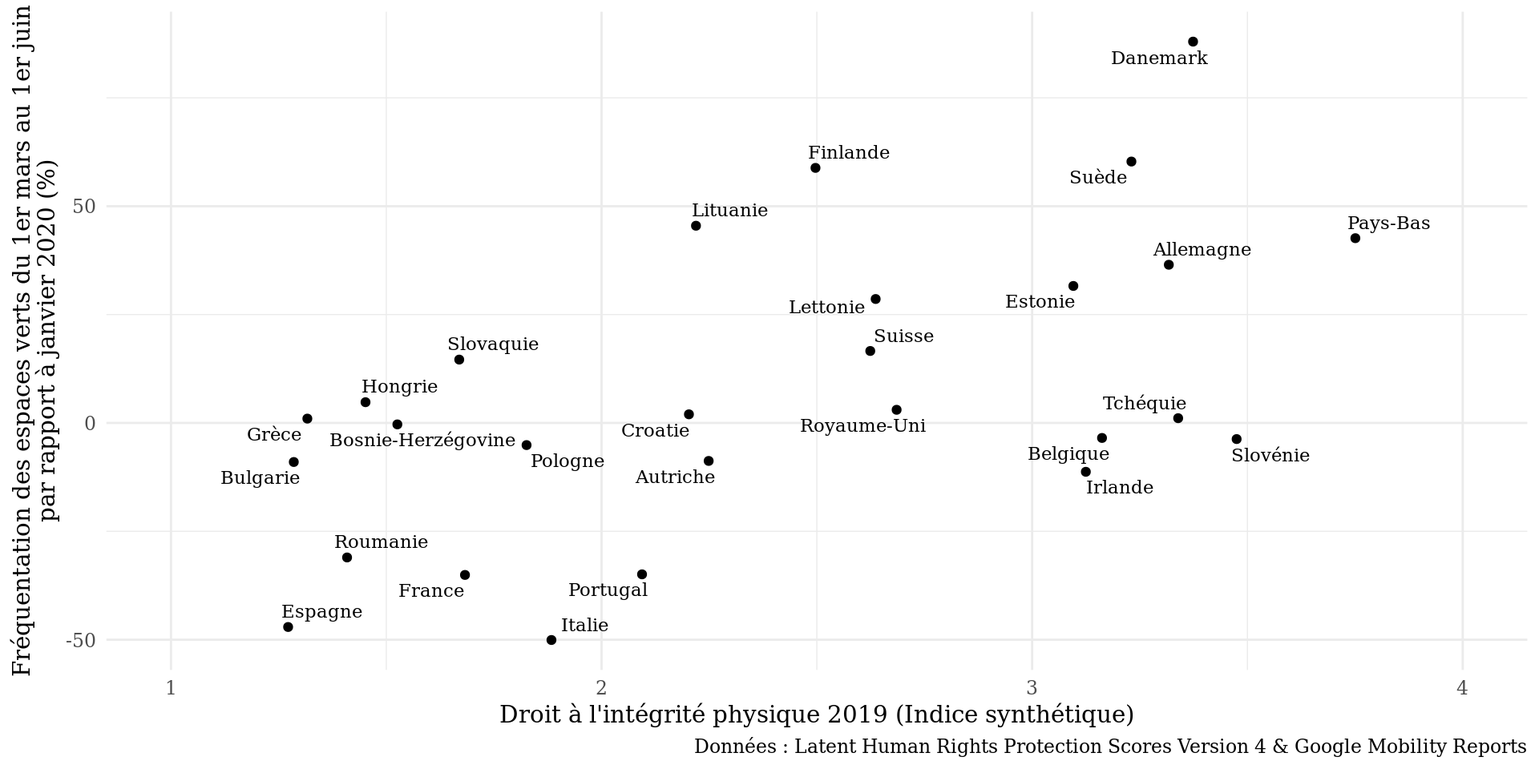
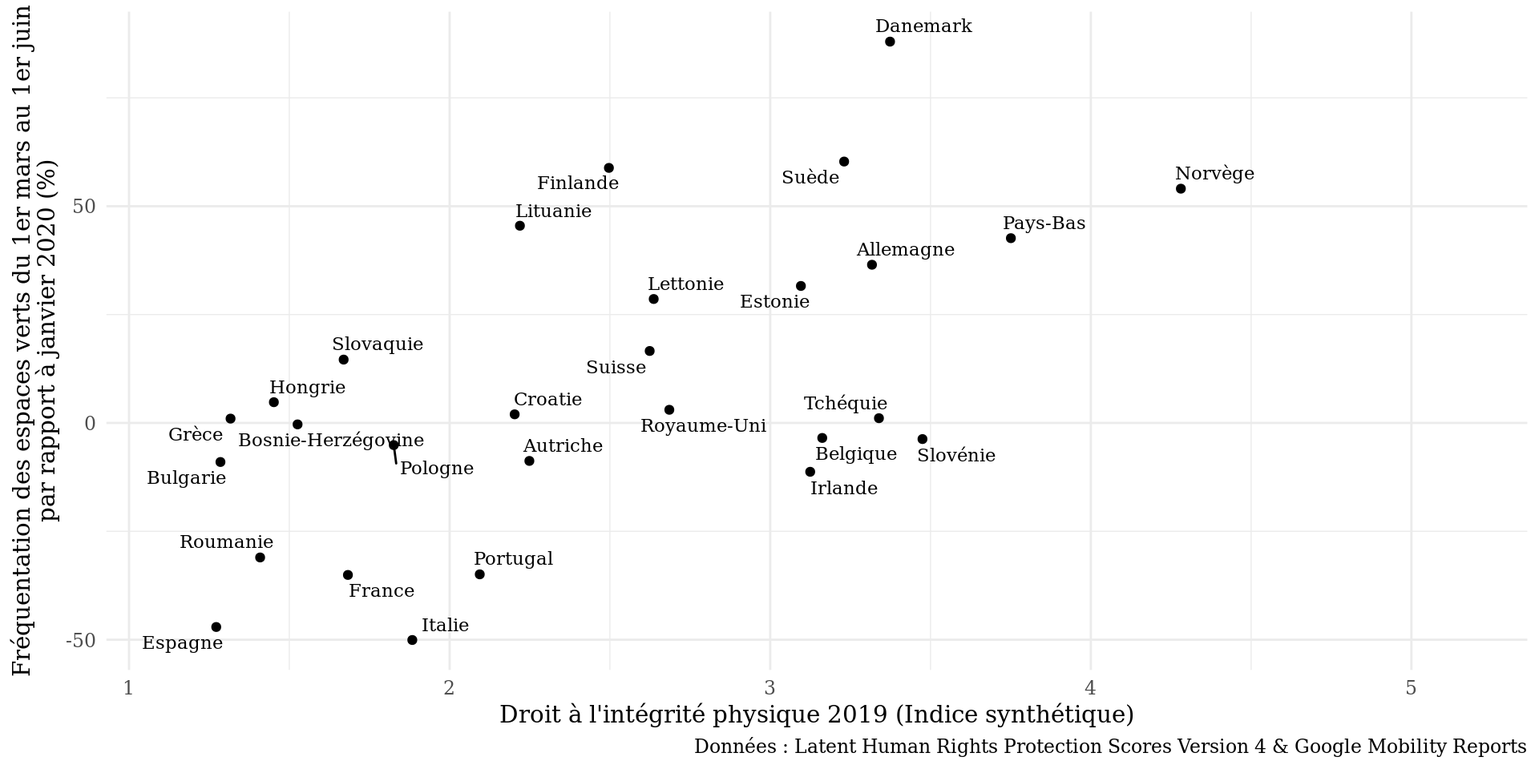
remove x limits of fariss parks

diff --git a/docs/diaporama.html b/docs/diaporama.html
@@ -832,8 +832,8 @@ Théo Boulakia &amp; Nicolas Mariot
 <h1>Données utilisées</h1>
 <div class="cell">
 <div class="cell-output-display">
-<div class="visNetwork html-widget html-fill-item" id="htmlwidget-3bc917cd53eb9d5da345" style="width:960px;height:480px;"></div>
-<script type="application/json" data-for="htmlwidget-3bc917cd53eb9d5da345">{"x":{"nodes":{"name":["agr","agr_file","agr_mode","agr_mode_plot","agr_police_boxplot","agr_police_plot","antai_file","apple","apple_file","cah_vico","chop_ci","communes_securitaires_map","communes_sf_file","controles","controles_file","date_beginn","date_end","departements","departements_sf_file","exceptius","exceptius_controler","exceptius_decreter","exceptius_file","exceptius_plot","excess_mortality","excess_mortality_file","fariss","fariss_file","fariss_parks_plot","frequences","geom_fontfamily","google","google_file","indice_p_score_plot","outre_mer","oxcgrt","oxcgrt_file","parks_average_plot","parks_evolution_plot","pm","pm_com","pm_dep","pm_file","police_europe","police_europe_file","police_europe_plot","police_parks_plot","population_departement","population_file","prevalence_classint","prevalence_verbalisation_map","prevalence_verbalisation_shadow","selection_pays_europe","stringency_index_plot","stringency_index_polar_plot","taux_verbalisation_plot","to_exclude","v_age","v_caract","v_demo","v_emotions","v_habitat","v_habitat_avant","v_habitat_avant_tc","v_habitat_avant_tc_names","v_habitat_tc","v_habitat_tc_root","v_interdits","v_nuisances","v_nuisances_avant","v_participation","v_police","v_politisation","v_pratiques","v_precautions","v_religion","v_remarques","v_travail","v_vecu","verbalisations_departement","vico","vico_acm","vico_clust","vico_read","vigilants","vigilants_departements","vigilants_file","vigilants_map","vigilants_plm","wb","wb_file","wb_police_europe_pcmh","world_composite_score","world_country_date","world_sf","world_summarise","table_to_tibble","lag_indice_in_string","name_groups","name_clust","preserve_order_when_arranging","bind_chi_prop","order_groups","shape_hux","map_chi_prop","visualize_dendrogram"],"type":["stem","stem","stem","stem","stem","stem","stem","stem","stem","stem","stem","stem","stem","stem","stem","stem","stem","stem","stem","stem","stem","stem","stem","stem","stem","stem","stem","stem","stem","stem","stem","stem","stem","stem","stem","stem","stem","stem","stem","stem","stem","stem","stem","stem","stem","stem","stem","stem","stem","stem","stem","stem","stem","stem","stem","stem","stem","stem","stem","stem","stem","stem","stem","stem","stem","stem","stem","stem","stem","stem","stem","stem","stem","stem","stem","stem","stem","stem","stem","stem","stem","stem","stem","stem","stem","stem","stem","stem","stem","stem","stem","stem","stem","stem","stem","stem","function","function","function","function","function","function","function","function","function","function"],"description":[null,null,null,null,null,null,null,null,null,null,null,null,null,null,null,null,null,null,null,null,null,null,null,null,null,null,null,null,null,null,null,null,null,null,null,null,null,null,null,null,null,null,null,null,null,null,null,null,null,null,null,null,null,null,null,null,null,null,null,null,null,null,null,null,null,null,null,null,null,null,null,null,null,null,null,null,null,null,null,null,null,null,null,null,null,null,null,null,null,null,null,null,null,null,null,null,null,null,null,null,null,null,null,null,null,null],"status":["uptodate","uptodate","uptodate","uptodate","uptodate","uptodate","uptodate","uptodate","uptodate","uptodate","uptodate","uptodate","uptodate","uptodate","uptodate","uptodate","uptodate","uptodate","uptodate","uptodate","uptodate","uptodate","uptodate","uptodate","uptodate","uptodate","uptodate","uptodate","uptodate","uptodate","uptodate","uptodate","uptodate","uptodate","uptodate","uptodate","uptodate","uptodate","uptodate","uptodate","uptodate","uptodate","uptodate","uptodate","uptodate","uptodate","uptodate","uptodate","uptodate","uptodate","uptodate","uptodate","uptodate","uptodate","uptodate","uptodate","uptodate","uptodate","uptodate","uptodate","uptodate","uptodate","uptodate","uptodate","uptodate","uptodate","uptodate","uptodate","uptodate","uptodate","uptodate","uptodate","uptodate","uptodate","uptodate","uptodate","uptodate","uptodate","uptodate","uptodate","uptodate","uptodate","uptodate","uptodate","uptodate","uptodate","uptodate","uptodate","uptodate","uptodate","uptodate","uptodate","uptodate","uptodate","uptodate","uptodate","uptodate","uptodate","uptodate","uptodate","uptodate","uptodate","uptodate","uptodate","uptodate","uptodate"],"seconds":[1.024,0.001,0.097,0.496,0.114,0.049,0,0.08500000000000001,0.001,24.724,0.001,0.973,0.001,0.083,0.001,1.05,0.002,0.018,0,0.014,0.046,0.05,0.001,0.033,0.475,0.001,0.918,0.001,0.114,0.146,0,3.092,0.001,0.11,0,1.794,0.001,0.047,1.062,0.368,0.11,0.008,0.001,0.606,0.001,0.045,0.027,0.141,0.001,0.002,0.061,0.107,0,0.064,0.101,0.008999999999999999,0.026,0,0,0,0.001,0.001,0,0.001,0.001,0,0.004,0,0,1.07,0,0.001,0,0,0,0,0,0,0.001,0.008999999999999999,0.016,0.075,0.006,4.298,0.2,0.005,0.001,0.865,0.097,0.33,4.086,0.033,0.07199999999999999,3.708,2.925,0.733,null,null,null,null,null,null,null,null,null,null],"bytes":[119233,8046111,685,134220,148703,129969,11920,362240,2638294,4600298,59871,20663160,55197696,613,64880,80,80,4014,3723264,312,359,359,29529,157407,126936,4904153,2405,1481889,189967,992,56,1274572,67114114,163534,107,117440,9782239,109357,428881,71077,38017,1186,344321,2108,963527,109145,220001,2068,2322944,1121,9490042,9523044,102,108036,193682,116781,389,114,620,223,182,355,346,200,103,201,91,216,225,231,168,118,168,390,183,141,117,278,774,775,576620,129808,49480,568673,146887,178,370964,45112647,66686,39732,204318,1467,2856,209592,139812,12688,null,null,null,null,null,null,null,null,null,null],"branches":[null,null,null,null,null,null,null,null,null,null,null,null,null,null,null,null,null,null,null,null,null,null,null,null,null,null,null,null,null,null,null,null,null,null,null,null,null,null,null,null,null,null,null,null,null,null,null,null,null,null,null,null,null,null,null,null,null,null,null,null,null,null,null,null,null,null,null,null,null,null,null,null,null,null,null,null,null,null,null,null,null,null,null,null,null,null,null,null,null,null,null,null,null,null,null,null,null,null,null,null,null,null,null,null,null,null],"label":["agr","agr_file","agr_mode","agr_mode_plot","agr_police_boxplot","agr_police_plot","antai_file","apple","apple_file","cah_vico","chop_ci","communes_securitaires_map","communes_sf_file","controles","controles_file","date_beginn","date_end","departements","departements_sf_file","exceptius","exceptius_controler","exceptius_decreter","exceptius_file","exceptius_plot","excess_mortality","excess_mortality_file","fariss","fariss_file","fariss_parks_plot","frequences","geom_fontfamily","google","google_file","indice_p_score_plot","outre_mer","oxcgrt","oxcgrt_file","parks_average_plot","parks_evolution_plot","pm","pm_com","pm_dep","pm_file","police_europe","police_europe_file","police_europe_plot","police_parks_plot","population_departement","population_file","prevalence_classint","prevalence_verbalisation_map","prevalence_verbalisation_shadow","selection_pays_europe","stringency_index_plot","stringency_index_polar_plot","taux_verbalisation_plot","to_exclude","v_age","v_caract","v_demo","v_emotions","v_habitat","v_habitat_avant","v_habitat_avant_tc","v_habitat_avant_tc_names","v_habitat_tc","v_habitat_tc_root","v_interdits","v_nuisances","v_nuisances_avant","v_participation","v_police","v_politisation","v_pratiques","v_precautions","v_religion","v_remarques","v_travail","v_vecu","verbalisations_departement","vico","vico_acm","vico_clust","vico_read","vigilants","vigilants_departements","vigilants_file","vigilants_map","vigilants_plm","wb","wb_file","wb_police_europe_pcmh","world_composite_score","world_country_date","world_sf","world_summarise","table_to_tibble","lag_indice_in_string","name_groups","name_clust","preserve_order_when_arranging","bind_chi_prop","order_groups","shape_hux","map_chi_prop","visualize_dendrogram"],"color":["#354823","#354823","#354823","#354823","#354823","#354823","#354823","#354823","#354823","#354823","#354823","#354823","#354823","#354823","#354823","#354823","#354823","#354823","#354823","#354823","#354823","#354823","#354823","#354823","#354823","#354823","#354823","#354823","#354823","#354823","#354823","#354823","#354823","#354823","#354823","#354823","#354823","#354823","#354823","#354823","#354823","#354823","#354823","#354823","#354823","#354823","#354823","#354823","#354823","#354823","#354823","#354823","#354823","#354823","#354823","#354823","#354823","#354823","#354823","#354823","#354823","#354823","#354823","#354823","#354823","#354823","#354823","#354823","#354823","#354823","#354823","#354823","#354823","#354823","#354823","#354823","#354823","#354823","#354823","#354823","#354823","#354823","#354823","#354823","#354823","#354823","#354823","#354823","#354823","#354823","#354823","#354823","#354823","#354823","#354823","#354823","#354823","#354823","#354823","#354823","#354823","#354823","#354823","#354823","#354823","#354823"],"id":["agr","agr_file","agr_mode","agr_mode_plot","agr_police_boxplot","agr_police_plot","antai_file","apple","apple_file","cah_vico","chop_ci","communes_securitaires_map","communes_sf_file","controles","controles_file","date_beginn","date_end","departements","departements_sf_file","exceptius","exceptius_controler","exceptius_decreter","exceptius_file","exceptius_plot","excess_mortality","excess_mortality_file","fariss","fariss_file","fariss_parks_plot","frequences","geom_fontfamily","google","google_file","indice_p_score_plot","outre_mer","oxcgrt","oxcgrt_file","parks_average_plot","parks_evolution_plot","pm","pm_com","pm_dep","pm_file","police_europe","police_europe_file","police_europe_plot","police_parks_plot","population_departement","population_file","prevalence_classint","prevalence_verbalisation_map","prevalence_verbalisation_shadow","selection_pays_europe","stringency_index_plot","stringency_index_polar_plot","taux_verbalisation_plot","to_exclude","v_age","v_caract","v_demo","v_emotions","v_habitat","v_habitat_avant","v_habitat_avant_tc","v_habitat_avant_tc_names","v_habitat_tc","v_habitat_tc_root","v_interdits","v_nuisances","v_nuisances_avant","v_participation","v_police","v_politisation","v_pratiques","v_precautions","v_religion","v_remarques","v_travail","v_vecu","verbalisations_departement","vico","vico_acm","vico_clust","vico_read","vigilants","vigilants_departements","vigilants_file","vigilants_map","vigilants_plm","wb","wb_file","wb_police_europe_pcmh","world_composite_score","world_country_date","world_sf","world_summarise","table_to_tibble","lag_indice_in_string","name_groups","name_clust","preserve_order_when_arranging","bind_chi_prop","order_groups","shape_hux","map_chi_prop","visualize_dendrogram"],"level":[2,1,3,6,6,6,1,2,1,11,1,4,1,2,1,1,1,3,1,3,2,2,1,6,3,1,3,1,6,9,1,3,1,7,0,3,1,6,5,2,3,3,1,3,1,6,6,2,1,4,4,5,1,6,6,4,10,1,6,1,1,2,5,4,3,1,2,1,1,1,1,1,1,2,1,1,1,1,3,2,13,8,12,7,2,3,1,4,3,2,1,4,6,4,1,5,1,0,1,1,1,2,2,2,3,3],"shape":["dot","dot","dot","dot","dot","dot","dot","dot","dot","dot","dot","dot","dot","dot","dot","dot","dot","dot","dot","dot","dot","dot","dot","dot","dot","dot","dot","dot","dot","dot","dot","dot","dot","dot","dot","dot","dot","dot","dot","dot","dot","dot","dot","dot","dot","dot","dot","dot","dot","dot","dot","dot","dot","dot","dot","dot","dot","dot","dot","dot","dot","dot","dot","dot","dot","dot","dot","dot","dot","dot","dot","dot","dot","dot","dot","dot","dot","dot","dot","dot","dot","dot","dot","dot","dot","dot","dot","dot","dot","dot","dot","dot","dot","dot","dot","dot","triangle","triangle","triangle","triangle","triangle","triangle","triangle","triangle","triangle","triangle"]},"edges":{"from":["table_to_tibble","bind_chi_prop","name_groups","order_groups","name_clust","preserve_order_when_arranging","v_caract","v_habitat_tc","v_pratiques","v_vecu","world_summarise","vigilants","police_europe_file","wb","vigilants_file","communes_sf_file","pm_com","v_habitat_tc_root","world_summarise","v_habitat_avant_tc","v_nuisances_avant","geom_fontfamily","world_composite_score","world_summarise","selection_pays_europe","wb","world_country_date","agr_mode","exceptius","fariss","wb","wb_police_europe_pcmh","world_country_date","world_sf","geom_fontfamily","world_summarise","v_pratiques","vico_read","wb_file","agr_file","geom_fontfamily","world_summarise","departements","geom_fontfamily","frequences","agr","apple","date_beginn","date_end","excess_mortality","google","oxcgrt","wb","fariss_file","wb","world_summarise","apple_file","oxcgrt_file","wb","pm_file","population_file","communes_sf_file","vigilants_plm","police_europe","wb","v_habitat_tc","v_habitat_tc","v_nuisances","geom_fontfamily","world_summarise","geom_fontfamily","world_summarise","world_summarise","agr","wb","exceptius_file","v_habitat_avant_tc_names","v_habitat_tc","departements","departements_sf_file","prevalence_classint","exceptius_controler","exceptius_decreter","world_summarise","pm","vigilants","geom_fontfamily","world_summarise","antai_file","exceptius_file","v_interdits","v_participation","v_precautions","pm","departements","departements_sf_file","chop_ci","controles","population_departement","verbalisations_departement","controles_file","geom_fontfamily","world_summarise","v_emotions","v_habitat","v_nuisances","v_police","v_remarques","v_travail","vico_acm","vico_read","excess_mortality_file","wb","google_file","wb","cah_vico","vico_clust","vico_read","v_age","v_demo","v_habitat_avant","v_politisation","v_religion","departements","to_exclude","vico_acm","vico_read"],"to":["bind_chi_prop","map_chi_prop","order_groups","visualize_dendrogram","shape_hux","shape_hux","vico_read","vico_read","vico_read","vico_read","parks_average_plot","vigilants_departements","police_europe","police_europe","vigilants","communes_securitaires_map","communes_securitaires_map","v_habitat_avant_tc_names","world_composite_score","v_habitat_avant","v_habitat_avant","indice_p_score_plot","indice_p_score_plot","indice_p_score_plot","parks_evolution_plot","parks_evolution_plot","parks_evolution_plot","world_summarise","world_summarise","world_summarise","world_summarise","world_summarise","world_summarise","world_summarise","exceptius_plot","exceptius_plot","vico_acm","vico_acm","wb","agr","fariss_parks_plot","fariss_parks_plot","taux_verbalisation_plot","taux_verbalisation_plot","to_exclude","world_country_date","world_country_date","world_country_date","world_country_date","world_country_date","world_country_date","world_country_date","world_country_date","fariss","fariss","police_europe_plot","apple","oxcgrt","oxcgrt","pm","population_departement","vigilants_map","vigilants_map","wb_police_europe_pcmh","wb_police_europe_pcmh","v_habitat_tc_root","v_habitat","v_habitat","agr_police_boxplot","agr_police_boxplot","agr_mode_plot","agr_mode_plot","stringency_index_plot","agr_mode","agr_mode","exceptius_decreter","v_habitat_avant_tc","v_habitat_avant_tc","prevalence_verbalisation_shadow","prevalence_verbalisation_shadow","prevalence_verbalisation_shadow","exceptius","exceptius","stringency_index_polar_plot","pm_dep","vigilants_plm","agr_police_plot","agr_police_plot","verbalisations_departement","exceptius_controler","v_pratiques","v_pratiques","v_pratiques","pm_com","prevalence_verbalisation_map","prevalence_verbalisation_map","departements","departements","departements","departements","controles","police_parks_plot","police_parks_plot","v_vecu","v_vecu","v_vecu","v_vecu","v_vecu","v_vecu","frequences","frequences","excess_mortality","excess_mortality","google","google","vico_clust","vico","vico","v_caract","v_caract","v_caract","v_caract","v_caract","prevalence_classint","cah_vico","cah_vico","cah_vico"],"arrows":["to","to","to","to","to","to","to","to","to","to","to","to","to","to","to","to","to","to","to","to","to","to","to","to","to","to","to","to","to","to","to","to","to","to","to","to","to","to","to","to","to","to","to","to","to","to","to","to","to","to","to","to","to","to","to","to","to","to","to","to","to","to","to","to","to","to","to","to","to","to","to","to","to","to","to","to","to","to","to","to","to","to","to","to","to","to","to","to","to","to","to","to","to","to","to","to","to","to","to","to","to","to","to","to","to","to","to","to","to","to","to","to","to","to","to","to","to","to","to","to","to","to","to","to","to","to","to"]},"nodesToDataframe":true,"edgesToDataframe":true,"options":{"width":"100%","height":"100%","nodes":{"shape":"dot","physics":false},"manipulation":{"enabled":false},"edges":{"smooth":{"type":"cubicBezier","forceDirection":"horizontal"}},"physics":{"stabilization":false},"interaction":{"zoomSpeed":1},"layout":{"hierarchical":{"enabled":true,"direction":"LR"}}},"groups":null,"width":null,"height":null,"idselection":{"enabled":false,"style":"width: 150px; height: 26px","useLabels":true,"main":"Select by id"},"byselection":{"enabled":false,"style":"width: 150px; height: 26px","multiple":false,"hideColor":"rgba(200,200,200,0.5)","highlight":false},"main":{"text":"","style":"font-family:Georgia, Times New Roman, Times, serif;font-weight:bold;font-size:20px;text-align:center;"},"submain":null,"footer":null,"background":"rgba(0, 0, 0, 0)","highlight":{"enabled":true,"hoverNearest":false,"degree":{"from":1,"to":1},"algorithm":"hierarchical","hideColor":"rgba(200,200,200,0.5)","labelOnly":true},"collapse":{"enabled":true,"fit":false,"resetHighlight":true,"clusterOptions":null,"keepCoord":true,"labelSuffix":"(cluster)"},"legend":{"width":0.2,"useGroups":false,"position":"right","ncol":1,"stepX":100,"stepY":100,"zoom":true,"nodes":{"label":["Up to date","Stem","Function"],"color":["#354823","#899DA4","#899DA4"],"shape":["dot","dot","triangle"]},"nodesToDataframe":true},"tooltipStay":300,"tooltipStyle":"position: fixed;visibility:hidden;padding: 5px;white-space: nowrap;font-family: verdana;font-size:14px;font-color:#000000;background-color: #f5f4ed;-moz-border-radius: 3px;-webkit-border-radius: 3px;border-radius: 3px;border: 1px solid #808074;box-shadow: 3px 3px 10px rgba(0, 0, 0, 0.2);"},"evals":[],"jsHooks":[]}</script>
+<div class="visNetwork html-widget html-fill-item" id="htmlwidget-5c4fe2698ba17a300e28" style="width:960px;height:480px;"></div>
+<script type="application/json" data-for="htmlwidget-5c4fe2698ba17a300e28">{"x":{"nodes":{"name":["agr","agr_file","agr_mode","agr_mode_plot","agr_police_boxplot","agr_police_plot","antai_file","apple","apple_file","cah_vico","chop_ci","communes_securitaires_map","communes_sf_file","controles","controles_file","date_beginn","date_end","departements","departements_sf_file","exceptius","exceptius_controler","exceptius_decreter","exceptius_file","exceptius_plot","excess_mortality","excess_mortality_file","fariss","fariss_file","fariss_parks_plot","frequences","geom_fontfamily","google","google_file","indice_p_score_plot","outre_mer","oxcgrt","oxcgrt_file","parks_average_plot","parks_evolution_plot","pm","pm_com","pm_dep","pm_file","police_europe","police_europe_file","police_europe_plot","police_parks_plot","population_departement","population_file","prevalence_classint","prevalence_verbalisation_map","prevalence_verbalisation_shadow","selection_pays_europe","stringency_index_plot","stringency_index_polar_plot","taux_verbalisation_plot","to_exclude","v_age","v_caract","v_demo","v_emotions","v_habitat","v_habitat_avant","v_habitat_avant_tc","v_habitat_avant_tc_names","v_habitat_tc","v_habitat_tc_root","v_interdits","v_nuisances","v_nuisances_avant","v_participation","v_police","v_politisation","v_pratiques","v_precautions","v_religion","v_remarques","v_travail","v_vecu","verbalisations_departement","vico","vico_acm","vico_clust","vico_read","vigilants","vigilants_departements","vigilants_file","vigilants_map","vigilants_plm","wb","wb_file","wb_police_europe_pcmh","world_composite_score","world_country_date","world_sf","world_summarise","table_to_tibble","lag_indice_in_string","name_groups","name_clust","preserve_order_when_arranging","bind_chi_prop","order_groups","shape_hux","map_chi_prop","visualize_dendrogram"],"type":["stem","stem","stem","stem","stem","stem","stem","stem","stem","stem","stem","stem","stem","stem","stem","stem","stem","stem","stem","stem","stem","stem","stem","stem","stem","stem","stem","stem","stem","stem","stem","stem","stem","stem","stem","stem","stem","stem","stem","stem","stem","stem","stem","stem","stem","stem","stem","stem","stem","stem","stem","stem","stem","stem","stem","stem","stem","stem","stem","stem","stem","stem","stem","stem","stem","stem","stem","stem","stem","stem","stem","stem","stem","stem","stem","stem","stem","stem","stem","stem","stem","stem","stem","stem","stem","stem","stem","stem","stem","stem","stem","stem","stem","stem","stem","stem","function","function","function","function","function","function","function","function","function","function"],"description":[null,null,null,null,null,null,null,null,null,null,null,null,null,null,null,null,null,null,null,null,null,null,null,null,null,null,null,null,null,null,null,null,null,null,null,null,null,null,null,null,null,null,null,null,null,null,null,null,null,null,null,null,null,null,null,null,null,null,null,null,null,null,null,null,null,null,null,null,null,null,null,null,null,null,null,null,null,null,null,null,null,null,null,null,null,null,null,null,null,null,null,null,null,null,null,null,null,null,null,null,null,null,null,null,null,null],"status":["uptodate","uptodate","uptodate","uptodate","uptodate","uptodate","uptodate","uptodate","uptodate","uptodate","uptodate","uptodate","uptodate","uptodate","uptodate","uptodate","uptodate","uptodate","uptodate","uptodate","uptodate","uptodate","uptodate","uptodate","uptodate","uptodate","uptodate","uptodate","uptodate","uptodate","uptodate","uptodate","uptodate","uptodate","uptodate","uptodate","uptodate","uptodate","uptodate","uptodate","uptodate","uptodate","uptodate","uptodate","uptodate","uptodate","uptodate","uptodate","uptodate","uptodate","uptodate","uptodate","uptodate","uptodate","uptodate","uptodate","uptodate","uptodate","uptodate","uptodate","uptodate","uptodate","uptodate","uptodate","uptodate","uptodate","uptodate","uptodate","uptodate","uptodate","uptodate","uptodate","uptodate","uptodate","uptodate","uptodate","uptodate","uptodate","uptodate","uptodate","uptodate","uptodate","uptodate","uptodate","uptodate","uptodate","uptodate","uptodate","uptodate","uptodate","uptodate","uptodate","uptodate","uptodate","uptodate","uptodate","uptodate","uptodate","uptodate","uptodate","uptodate","uptodate","uptodate","uptodate","uptodate","uptodate"],"seconds":[1.024,0.001,0.097,0.496,0.114,0.049,0,0.08500000000000001,0.001,24.724,0.001,0.973,0.001,0.083,0.001,1.05,0.002,0.018,0,0.014,0.046,0.05,0.001,0.033,0.475,0.001,0.918,0.001,0.02,0.146,0,3.092,0.001,0.11,0,1.794,0.001,0.047,1.062,0.368,0.11,0.008,0.001,0.606,0.001,0.045,0.027,0.141,0.001,0.002,0.061,0.107,0,0.064,0.101,0.008999999999999999,0.026,0,0,0,0.001,0.001,0,0.001,0.001,0,0.004,0,0,1.07,0,0.001,0,0,0,0,0,0,0.001,0.008999999999999999,0.016,0.075,0.006,4.298,0.2,0.005,0.001,0.865,0.097,0.33,4.086,0.033,0.07199999999999999,3.708,2.925,0.733,null,null,null,null,null,null,null,null,null,null],"bytes":[119233,8046111,685,134220,148703,129969,11920,362240,2638294,4600298,59871,20663160,55197696,613,64880,80,80,4014,3723264,312,359,359,29529,157407,126936,4904153,2405,1481889,127362,992,56,1274572,67114114,163534,107,117440,9782239,109357,428881,71077,38017,1186,344321,2108,963527,109145,220001,2068,2322944,1121,9490042,9523044,102,108036,193682,116781,389,114,620,223,182,355,346,200,103,201,91,216,225,231,168,118,168,390,183,141,117,278,774,775,576620,129808,49480,568673,146887,178,370964,45112647,66686,39732,204318,1467,2856,209592,139812,12688,null,null,null,null,null,null,null,null,null,null],"branches":[null,null,null,null,null,null,null,null,null,null,null,null,null,null,null,null,null,null,null,null,null,null,null,null,null,null,null,null,null,null,null,null,null,null,null,null,null,null,null,null,null,null,null,null,null,null,null,null,null,null,null,null,null,null,null,null,null,null,null,null,null,null,null,null,null,null,null,null,null,null,null,null,null,null,null,null,null,null,null,null,null,null,null,null,null,null,null,null,null,null,null,null,null,null,null,null,null,null,null,null,null,null,null,null,null,null],"label":["agr","agr_file","agr_mode","agr_mode_plot","agr_police_boxplot","agr_police_plot","antai_file","apple","apple_file","cah_vico","chop_ci","communes_securitaires_map","communes_sf_file","controles","controles_file","date_beginn","date_end","departements","departements_sf_file","exceptius","exceptius_controler","exceptius_decreter","exceptius_file","exceptius_plot","excess_mortality","excess_mortality_file","fariss","fariss_file","fariss_parks_plot","frequences","geom_fontfamily","google","google_file","indice_p_score_plot","outre_mer","oxcgrt","oxcgrt_file","parks_average_plot","parks_evolution_plot","pm","pm_com","pm_dep","pm_file","police_europe","police_europe_file","police_europe_plot","police_parks_plot","population_departement","population_file","prevalence_classint","prevalence_verbalisation_map","prevalence_verbalisation_shadow","selection_pays_europe","stringency_index_plot","stringency_index_polar_plot","taux_verbalisation_plot","to_exclude","v_age","v_caract","v_demo","v_emotions","v_habitat","v_habitat_avant","v_habitat_avant_tc","v_habitat_avant_tc_names","v_habitat_tc","v_habitat_tc_root","v_interdits","v_nuisances","v_nuisances_avant","v_participation","v_police","v_politisation","v_pratiques","v_precautions","v_religion","v_remarques","v_travail","v_vecu","verbalisations_departement","vico","vico_acm","vico_clust","vico_read","vigilants","vigilants_departements","vigilants_file","vigilants_map","vigilants_plm","wb","wb_file","wb_police_europe_pcmh","world_composite_score","world_country_date","world_sf","world_summarise","table_to_tibble","lag_indice_in_string","name_groups","name_clust","preserve_order_when_arranging","bind_chi_prop","order_groups","shape_hux","map_chi_prop","visualize_dendrogram"],"color":["#354823","#354823","#354823","#354823","#354823","#354823","#354823","#354823","#354823","#354823","#354823","#354823","#354823","#354823","#354823","#354823","#354823","#354823","#354823","#354823","#354823","#354823","#354823","#354823","#354823","#354823","#354823","#354823","#354823","#354823","#354823","#354823","#354823","#354823","#354823","#354823","#354823","#354823","#354823","#354823","#354823","#354823","#354823","#354823","#354823","#354823","#354823","#354823","#354823","#354823","#354823","#354823","#354823","#354823","#354823","#354823","#354823","#354823","#354823","#354823","#354823","#354823","#354823","#354823","#354823","#354823","#354823","#354823","#354823","#354823","#354823","#354823","#354823","#354823","#354823","#354823","#354823","#354823","#354823","#354823","#354823","#354823","#354823","#354823","#354823","#354823","#354823","#354823","#354823","#354823","#354823","#354823","#354823","#354823","#354823","#354823","#354823","#354823","#354823","#354823","#354823","#354823","#354823","#354823","#354823","#354823"],"id":["agr","agr_file","agr_mode","agr_mode_plot","agr_police_boxplot","agr_police_plot","antai_file","apple","apple_file","cah_vico","chop_ci","communes_securitaires_map","communes_sf_file","controles","controles_file","date_beginn","date_end","departements","departements_sf_file","exceptius","exceptius_controler","exceptius_decreter","exceptius_file","exceptius_plot","excess_mortality","excess_mortality_file","fariss","fariss_file","fariss_parks_plot","frequences","geom_fontfamily","google","google_file","indice_p_score_plot","outre_mer","oxcgrt","oxcgrt_file","parks_average_plot","parks_evolution_plot","pm","pm_com","pm_dep","pm_file","police_europe","police_europe_file","police_europe_plot","police_parks_plot","population_departement","population_file","prevalence_classint","prevalence_verbalisation_map","prevalence_verbalisation_shadow","selection_pays_europe","stringency_index_plot","stringency_index_polar_plot","taux_verbalisation_plot","to_exclude","v_age","v_caract","v_demo","v_emotions","v_habitat","v_habitat_avant","v_habitat_avant_tc","v_habitat_avant_tc_names","v_habitat_tc","v_habitat_tc_root","v_interdits","v_nuisances","v_nuisances_avant","v_participation","v_police","v_politisation","v_pratiques","v_precautions","v_religion","v_remarques","v_travail","v_vecu","verbalisations_departement","vico","vico_acm","vico_clust","vico_read","vigilants","vigilants_departements","vigilants_file","vigilants_map","vigilants_plm","wb","wb_file","wb_police_europe_pcmh","world_composite_score","world_country_date","world_sf","world_summarise","table_to_tibble","lag_indice_in_string","name_groups","name_clust","preserve_order_when_arranging","bind_chi_prop","order_groups","shape_hux","map_chi_prop","visualize_dendrogram"],"level":[2,1,3,6,6,6,1,2,1,11,1,4,1,2,1,1,1,3,1,3,2,2,1,6,3,1,3,1,6,9,1,3,1,7,0,3,1,6,5,2,3,3,1,3,1,6,6,2,1,4,4,5,1,6,6,4,10,1,6,1,1,2,5,4,3,1,2,1,1,1,1,1,1,2,1,1,1,1,3,2,13,8,12,7,2,3,1,4,3,2,1,4,6,4,1,5,1,0,1,1,1,2,2,2,3,3],"shape":["dot","dot","dot","dot","dot","dot","dot","dot","dot","dot","dot","dot","dot","dot","dot","dot","dot","dot","dot","dot","dot","dot","dot","dot","dot","dot","dot","dot","dot","dot","dot","dot","dot","dot","dot","dot","dot","dot","dot","dot","dot","dot","dot","dot","dot","dot","dot","dot","dot","dot","dot","dot","dot","dot","dot","dot","dot","dot","dot","dot","dot","dot","dot","dot","dot","dot","dot","dot","dot","dot","dot","dot","dot","dot","dot","dot","dot","dot","dot","dot","dot","dot","dot","dot","dot","dot","dot","dot","dot","dot","dot","dot","dot","dot","dot","dot","triangle","triangle","triangle","triangle","triangle","triangle","triangle","triangle","triangle","triangle"]},"edges":{"from":["table_to_tibble","bind_chi_prop","name_groups","order_groups","name_clust","preserve_order_when_arranging","v_caract","v_habitat_tc","v_pratiques","v_vecu","world_summarise","vigilants","police_europe_file","wb","vigilants_file","communes_sf_file","pm_com","v_habitat_tc_root","world_summarise","v_habitat_avant_tc","v_nuisances_avant","geom_fontfamily","world_composite_score","world_summarise","selection_pays_europe","wb","world_country_date","agr_mode","exceptius","fariss","wb","wb_police_europe_pcmh","world_country_date","world_sf","geom_fontfamily","world_summarise","v_pratiques","vico_read","wb_file","agr_file","geom_fontfamily","world_summarise","departements","geom_fontfamily","frequences","agr","apple","date_beginn","date_end","excess_mortality","google","oxcgrt","wb","fariss_file","wb","world_summarise","apple_file","oxcgrt_file","wb","pm_file","population_file","communes_sf_file","vigilants_plm","police_europe","wb","v_habitat_tc","v_habitat_tc","v_nuisances","geom_fontfamily","world_summarise","geom_fontfamily","world_summarise","world_summarise","agr","wb","exceptius_file","v_habitat_avant_tc_names","v_habitat_tc","departements","departements_sf_file","prevalence_classint","exceptius_controler","exceptius_decreter","world_summarise","pm","vigilants","geom_fontfamily","world_summarise","antai_file","exceptius_file","v_interdits","v_participation","v_precautions","pm","departements","departements_sf_file","chop_ci","controles","population_departement","verbalisations_departement","controles_file","geom_fontfamily","world_summarise","v_emotions","v_habitat","v_nuisances","v_police","v_remarques","v_travail","vico_acm","vico_read","excess_mortality_file","wb","google_file","wb","cah_vico","vico_clust","vico_read","v_age","v_demo","v_habitat_avant","v_politisation","v_religion","departements","to_exclude","vico_acm","vico_read"],"to":["bind_chi_prop","map_chi_prop","order_groups","visualize_dendrogram","shape_hux","shape_hux","vico_read","vico_read","vico_read","vico_read","parks_average_plot","vigilants_departements","police_europe","police_europe","vigilants","communes_securitaires_map","communes_securitaires_map","v_habitat_avant_tc_names","world_composite_score","v_habitat_avant","v_habitat_avant","indice_p_score_plot","indice_p_score_plot","indice_p_score_plot","parks_evolution_plot","parks_evolution_plot","parks_evolution_plot","world_summarise","world_summarise","world_summarise","world_summarise","world_summarise","world_summarise","world_summarise","exceptius_plot","exceptius_plot","vico_acm","vico_acm","wb","agr","fariss_parks_plot","fariss_parks_plot","taux_verbalisation_plot","taux_verbalisation_plot","to_exclude","world_country_date","world_country_date","world_country_date","world_country_date","world_country_date","world_country_date","world_country_date","world_country_date","fariss","fariss","police_europe_plot","apple","oxcgrt","oxcgrt","pm","population_departement","vigilants_map","vigilants_map","wb_police_europe_pcmh","wb_police_europe_pcmh","v_habitat_tc_root","v_habitat","v_habitat","agr_police_boxplot","agr_police_boxplot","agr_mode_plot","agr_mode_plot","stringency_index_plot","agr_mode","agr_mode","exceptius_decreter","v_habitat_avant_tc","v_habitat_avant_tc","prevalence_verbalisation_shadow","prevalence_verbalisation_shadow","prevalence_verbalisation_shadow","exceptius","exceptius","stringency_index_polar_plot","pm_dep","vigilants_plm","agr_police_plot","agr_police_plot","verbalisations_departement","exceptius_controler","v_pratiques","v_pratiques","v_pratiques","pm_com","prevalence_verbalisation_map","prevalence_verbalisation_map","departements","departements","departements","departements","controles","police_parks_plot","police_parks_plot","v_vecu","v_vecu","v_vecu","v_vecu","v_vecu","v_vecu","frequences","frequences","excess_mortality","excess_mortality","google","google","vico_clust","vico","vico","v_caract","v_caract","v_caract","v_caract","v_caract","prevalence_classint","cah_vico","cah_vico","cah_vico"],"arrows":["to","to","to","to","to","to","to","to","to","to","to","to","to","to","to","to","to","to","to","to","to","to","to","to","to","to","to","to","to","to","to","to","to","to","to","to","to","to","to","to","to","to","to","to","to","to","to","to","to","to","to","to","to","to","to","to","to","to","to","to","to","to","to","to","to","to","to","to","to","to","to","to","to","to","to","to","to","to","to","to","to","to","to","to","to","to","to","to","to","to","to","to","to","to","to","to","to","to","to","to","to","to","to","to","to","to","to","to","to","to","to","to","to","to","to","to","to","to","to","to","to","to","to","to","to","to","to"]},"nodesToDataframe":true,"edgesToDataframe":true,"options":{"width":"100%","height":"100%","nodes":{"shape":"dot","physics":false},"manipulation":{"enabled":false},"edges":{"smooth":{"type":"cubicBezier","forceDirection":"horizontal"}},"physics":{"stabilization":false},"interaction":{"zoomSpeed":1},"layout":{"hierarchical":{"enabled":true,"direction":"LR"}}},"groups":null,"width":null,"height":null,"idselection":{"enabled":false,"style":"width: 150px; height: 26px","useLabels":true,"main":"Select by id"},"byselection":{"enabled":false,"style":"width: 150px; height: 26px","multiple":false,"hideColor":"rgba(200,200,200,0.5)","highlight":false},"main":{"text":"","style":"font-family:Georgia, Times New Roman, Times, serif;font-weight:bold;font-size:20px;text-align:center;"},"submain":null,"footer":null,"background":"rgba(0, 0, 0, 0)","highlight":{"enabled":true,"hoverNearest":false,"degree":{"from":1,"to":1},"algorithm":"hierarchical","hideColor":"rgba(200,200,200,0.5)","labelOnly":true},"collapse":{"enabled":true,"fit":false,"resetHighlight":true,"clusterOptions":null,"keepCoord":true,"labelSuffix":"(cluster)"},"legend":{"width":0.2,"useGroups":false,"position":"right","ncol":1,"stepX":100,"stepY":100,"zoom":true,"nodes":{"label":["Up to date","Stem","Function"],"color":["#354823","#899DA4","#899DA4"],"shape":["dot","dot","triangle"]},"nodesToDataframe":true},"tooltipStay":300,"tooltipStyle":"position: fixed;visibility:hidden;padding: 5px;white-space: nowrap;font-family: verdana;font-size:14px;font-color:#000000;background-color: #f5f4ed;-moz-border-radius: 3px;-webkit-border-radius: 3px;border-radius: 3px;border: 1px solid #808074;box-shadow: 3px 3px 10px rgba(0, 0, 0, 0.2);"},"evals":[],"jsHooks":[]}</script>
 </div>
 </div>
 
